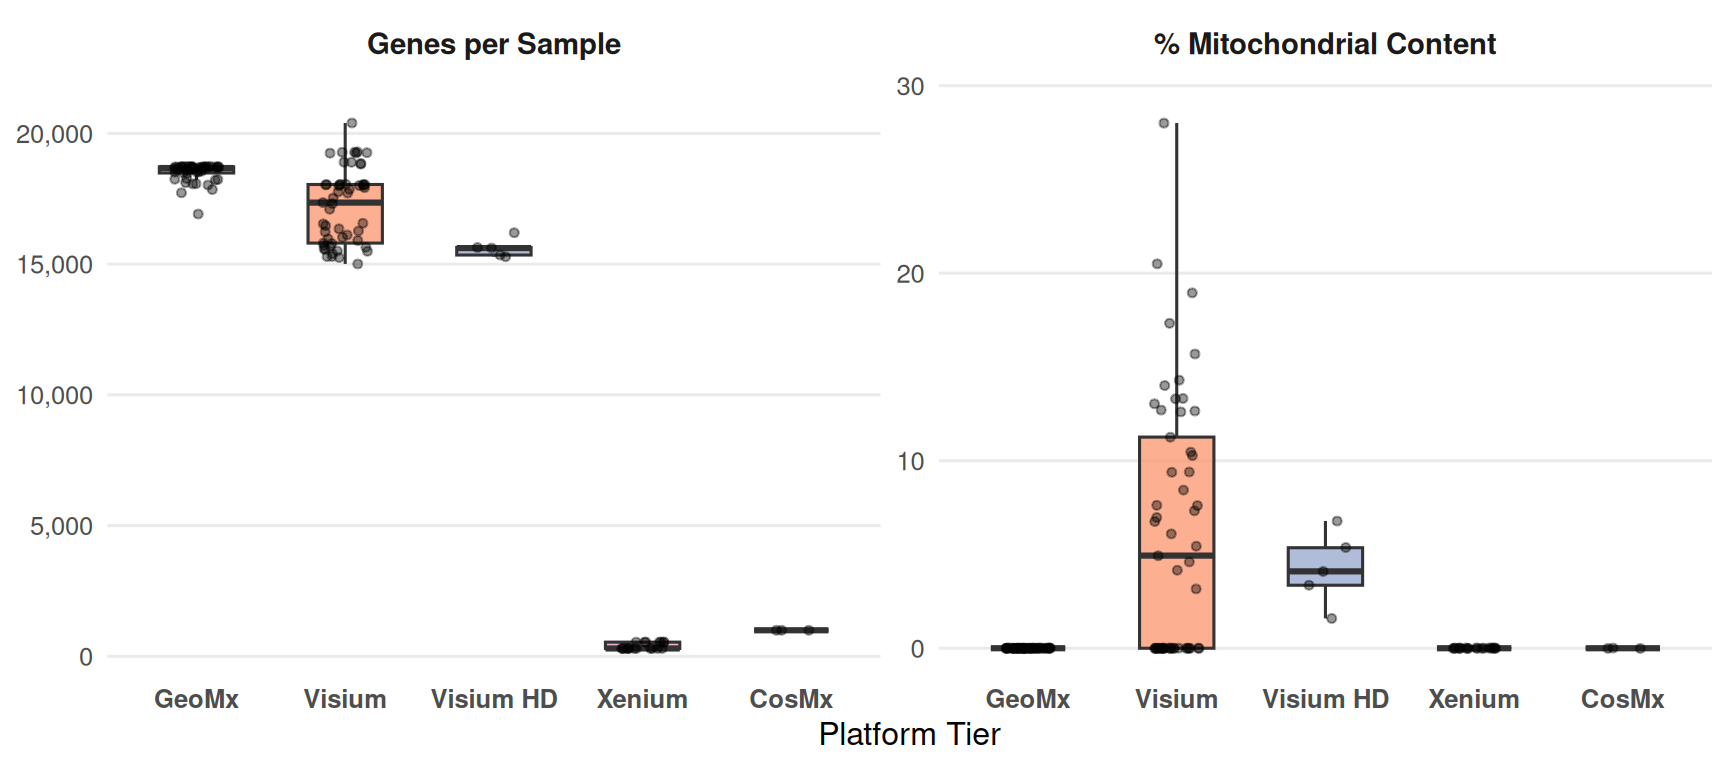
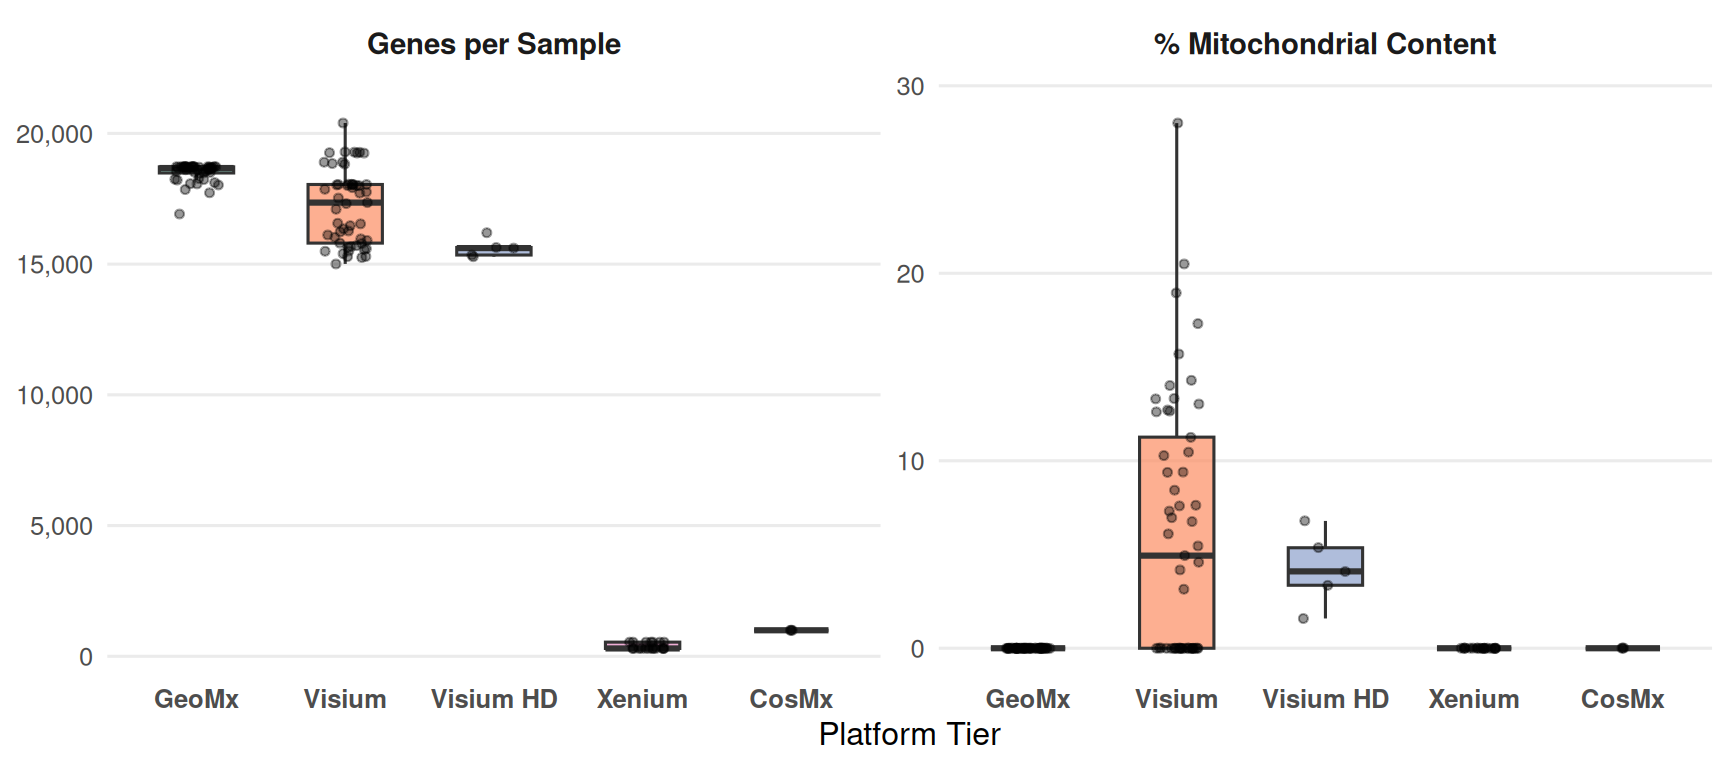
renal spatial add cover

diff --git a/cases/renalspatial/01_data_at_hand.html b/cases/renalspatial/01_data_at_hand.html
@@ -543,8 +543,8 @@ analysis is built around.</p>
 <div id="the-quality-of-the-data-sample-by-sample"
 class="section level2">
 <h2>The quality of the data, sample by sample</h2>
-<div class="datatables html-widget html-fill-item" id="htmlwidget-797ad695ef35dc31ff26" style="width:100%;height:auto;"></div>
-<script type="application/json" data-for="htmlwidget-797ad695ef35dc31ff26">{"x":{"filter":"none","vertical":false,"caption":"<caption>All samples: units, genes, and per-unit QC.<\/caption>","data":[["GSM8551262","GSM8551263","GSM8551264","GSM8323120","GSM8323121","GSM8323122","GSM8323123","GSM8323124","GSM8323125","GSM8325615","GSM8325616","GSM8325617","GSM8325618","GSM8325619","GSM8325620","GSM8325621","GSM8325622","GSM8325623","GSM8325624","GSM8325625","GSM8325626","GSM8110784","GSM8110785","GSM8110786","GSM8110787","GSM8691119","GSM8691120","GSM8691121","GSM8691122","GSM8691123","GSM8691124","GSM8691125","GSM9045323","GSM9108683","GSM9108684","GSM9108685","GSM9155022","GSM9155023","GSM9155024","GSM9155025","GSM9231917","GSM9231918","GSM9231919","GSM9231920","GSM9231921","GSM9231922","GSM9231923","GSM9231924","GSM9231925","GSM9231926","GSM9231927","GSM9231928","GSM9247127","GSM9247128","GSM9247129","GSM9247130","GSM9247131","GSM9247132","GSM9247133","GSM9247134","GSM9247135","GSM9247136","GSM9247137","GSM9247138","GSM9467249","GSM9467250","GSM9467251","GSM9467252","GSM9579055","GSM9579056","GSM9579057","GSM9579058","GSM9802211","GSM9895920","GSM9895921","GSM9895922","GSM9895923","GSM9938089","GSM9938090","GSM9938091","GSM9938092","GSM9938093","GSM9938094","GSM9938095","GSM9938096","GSM9938097","GSM9938098","GSM9938099","GSM9938100","GSM9938101","GSM9938102","GSM9938103","GSM9938104","GSM9938105","GSM9938106","GSM9938107","GSM9938108","GSM9938109","GSM9938110","GSM9938111","GSM9938112","GSM9938113","GSM9938114","GSM9938115","GSM9938116","GSM9938117","GSM9938118","GSM9938119","GSM9938120","GSM9938121","GSM9938122","GSM9938123","GSM9938124","GSM9938125","GSM9938126","GSM9938127","GSM9938128","GSM9938129","GSM9938130","GSM9938131","GSM9938132","GSM9938133","GSM9938134","GSM9938135","GSM9938136","GSM9026963","GSM6047778","GSM6047779"],["human-kidney-dev","human-kidney-dev","human-kidney-dev","mouse-IRI-repair","mouse-IRI-repair","mouse-IRI-repair","mouse-IRI-repair","mouse-IRI-repair","mouse-IRI-repair","mouse-IRI-repair","mouse-IRI-repair","mouse-IRI-repair","mouse-IRI-repair","mouse-IRI-repair","mouse-IRI-repair","mouse-IRI-repair","mouse-IRI-repair","mouse-IRI-repair","mouse-IRI-repair","mouse-IRI-repair","mouse-IRI-repair","hyperuricemia-mouse","hyperuricemia-mouse","hyperuricemia-mouse","hyperuricemia-mouse","kidney-transplant-rejection","kidney-transplant-rejection","kidney-transplant-rejection","kidney-transplant-rejection","kidney-transplant-rejection","kidney-transplant-rejection","kidney-transplant-rejection","kidney-repair-matrix","ANCA-vasculitis","ANCA-vasculitis","ANCA-vasculitis","transplant-rejection-FCGR3A","transplant-rejection-FCGR3A","transplant-rejection-FCGR3A","transplant-rejection-FCGR3A","DKD-MEF2C","DKD-MEF2C","DKD-MEF2C","DKD-MEF2C","DKD-MEF2C","DKD-MEF2C","DKD-MEF2C","DKD-MEF2C","DKD-MEF2C","DKD-MEF2C","DKD-MEF2C","DKD-MEF2C","EPO-cell-neighborhood","EPO-cell-neighborhood","EPO-cell-neighborhood","EPO-cell-neighborhood","EPO-cell-neighborhood","EPO-cell-neighborhood","EPO-cell-neighborhood","EPO-cell-neighborhood","EPO-cell-neighborhood","EPO-cell-neighborhood","EPO-cell-neighborhood","EPO-cell-neighborhood","DKD-HIF-SGLT2i","DKD-HIF-SGLT2i","DKD-HIF-SGLT2i","DKD-HIF-SGLT2i","lupus-nephritis-mouse","lupus-nephritis-mouse","lupus-nephritis-mouse","lupus-nephritis-mouse","CAMR-scRNA-VisiumHD","hypertensive-nephropathy","hypertensive-nephropathy","hypertensive-nephropathy","hypertensive-nephropathy","CAMR-GeoMx","CAMR-GeoMx","CAMR-GeoMx","CAMR-GeoMx","CAMR-GeoMx","CAMR-GeoMx","CAMR-GeoMx","CAMR-GeoMx","CAMR-GeoMx","CAMR-GeoMx","CAMR-GeoMx","CAMR-GeoMx","CAMR-GeoMx","CAMR-GeoMx","CAMR-GeoMx","CAMR-GeoMx","CAMR-GeoMx","CAMR-GeoMx","CAMR-GeoMx","CAMR-GeoMx","CAMR-GeoMx","CAMR-GeoMx","CAMR-GeoMx","CAMR-GeoMx","CAMR-GeoMx","CAMR-GeoMx","CAMR-GeoMx","CAMR-GeoMx","CAMR-GeoMx","CAMR-GeoMx","CAMR-GeoMx","CAMR-GeoMx","CAMR-GeoMx","CAMR-GeoMx","CAMR-GeoMx","CAMR-GeoMx","CAMR-GeoMx","CAMR-GeoMx","CAMR-GeoMx","CAMR-GeoMx","CAMR-GeoMx","CAMR-GeoMx","CAMR-GeoMx","CAMR-GeoMx","CAMR-GeoMx","CAMR-GeoMx","CAMR-GeoMx","CAMR-GeoMx","kidney-PT-regen","kidney-PT-regen","kidney-PT-regen"],["cosmx","cosmx","cosmx","visium","visium","visium","visium","visium","visium","xenium","xenium","xenium","xenium","xenium","xenium","xenium","xenium","xenium","xenium","xenium","xenium","visium","visium","visium","visium","xenium","xenium","xenium","xenium","xenium","xenium","xenium","visium","visium","visium","visium","visium","visium","visium","visium","visium","visium","visium","visium","visium","visium","visium","visium","visium","visium","visium","visium","visium","visium","visium","visium","visium","visium","visium","visium","visium","visium","visium","visium","visium_hd","visium_hd","visium_hd","visium_hd","visium","visium","visium","visium","visium_hd","visium","visium","visium","visium","geomx","geomx","geomx","geomx","geomx","geomx","geomx","geomx","geomx","geomx","geomx","geomx","geomx","geomx","geomx","geomx","geomx","geomx","geomx","geomx","geomx","geomx","geomx","geomx","geomx","geomx","geomx","geomx","geomx","geomx","geomx","geomx","geomx","geomx","geomx","geomx","geomx","geomx","geomx","geomx","geomx","geomx","geomx","geomx","geomx","geomx","geomx","geomx","visium","visium","visium"],[230536,127022,118188,2855,3085,3392,3434,2754,3912,110946,84141,99679,113560,108757,112011,101118,96601,152366,147595,152437,126104,2650,2590,2528,3362,36680,35806,40136,49288,44837,35699,45779,3134,1413,892,1277,1048,1348,992,1129,1865,1373,437,977,531,1203,1682,1394,1479,4608,1929,4569,4024,4439,4290,4759,4768,4509,4808,4615,4726,4927,4330,4257,55464,68732,56779,112893,3345,3205,3336,3313,129552,4064,4826,4913,4031,1,1,1,1,1,1,1,1,1,1,1,1,1,1,1,1,1,1,1,1,1,1,1,1,1,1,1,1,1,1,1,1,1,1,1,1,1,1,1,1,1,1,1,1,1,1,1,1,992,950,1028],[995,995,995,19245,19248,19261,19278,19292,19283,300,299,300,300,300,300,300,300,300,300,300,300,17716,17760,17353,17528,541,541,541,541,541,541,541,15503,17315,17100,20398,18009,17997,17926,17863,15492,15292,18028,18045,18044,18056,18006,15288,15587,18053,18030,18046,16350,16469,15708,16026,15967,15786,15400,15252,15669,15804,16267,16115,15283,15635,15613,16200,16563,16539,15643,15558,15348,18826,18847,18898,18897,16916,18068,18551,18215,18684,17728,17852,18614,18274,18720,18551,18723,18473,18722,18076,18117,18247,18026,18236,18670,18720,18728,18729,18609,18664,18661,18696,18691,18511,18693,18490,18722,18727,18610,18709,18681,18730,18730,18656,18717,18680,18708,18517,18708,18726,18730,18730,18723,15006,15903,16233],[101,72,58,5299,5474,5300.5,6310,7856,5392,35,37,47,46,44,44,53,51,44,39,46,47,4487.5,4728.5,5978.5,5627.5,159,167,211,203,194,187,201,7160,1428,1704.5,5103,3570,1189,3860,2113,4152,4671,8935,10393,9884,9725,5397,2216.5,3483,7502.5,3236,2338,374,432,729,2131,4935.5,3395,3496.5,2956,2428,4030,757.5,459,55,42,44,43,1797,1729,934.5,834,129,54.5,160.5,72,61,16916,18068,18551,18215,18684,17728,17852,18614,18274,18720,18551,18723,18473,18722,18076,18117,18247,18026,18236,18670,18720,18728,18729,18609,18664,18661,18696,18691,18511,18693,18490,18722,18727,18610,18709,18681,18730,18730,18656,18717,18680,18708,18517,18708,18726,18730,18730,18723,1567,2301.5,2384.5],[144,95,76,11933,20000,15083.5,21096,23222.5,18169,88,104,144,135,125,127,153,140,104,80,126,131,16674,19599.5,37386,32038.5,2561,2681,3163,2849,2693,2508,2506,36954.5,3062,3204.5,16631,5761.5,1689.5,7178.5,3605,9274,10255,28761,47211,39539,40878,15017.5,3900.5,6928,22307,5794,3862,431.5,498,1043,4123,16015.5,7037,8062,6300,4912.5,9628,946,547,59,44,46,45,3271,3105,1437,1198,147,59,176,75,65,68998,118515,162799,132662,255664,99603,95321,143282,103849,260137,123114,250219,108683,250585,80498,86681,94530,74567,80663,131516,200122,248182,245531,135963,143566,133399,157397,160704,101602,179882,111102,209536,225437,111018,162018,140383,358600,1873987,125948,251586,197825,234604,108856,217968,304691,463283,408485,207770,2532.5,3560,4204]],"container":"<table class=\"display\">\n  <thead>\n    <tr>\n      <th>gsm<\/th>\n      <th>study<\/th>\n      <th>tier<\/th>\n      <th>n_units<\/th>\n      <th>n_genes<\/th>\n      <th>median_genes<\/th>\n      <th>median_counts<\/th>\n    <\/tr>\n  <\/thead>\n<\/table>","options":{"pageLength":25,"lengthMenu":[25,50,100],"columnDefs":[{"className":"dt-right","targets":[3,4,5,6]},{"name":"gsm","targets":0},{"name":"study","targets":1},{"name":"tier","targets":2},{"name":"n_units","targets":3},{"name":"n_genes","targets":4},{"name":"median_genes","targets":5},{"name":"median_counts","targets":6}],"order":[],"autoWidth":false,"orderClasses":false}},"evals":[],"jsHooks":[]}</script>
+<div class="datatables html-widget html-fill-item" id="htmlwidget-0c2be0e70e4a9f6d4a1e" style="width:100%;height:auto;"></div>
+<script type="application/json" data-for="htmlwidget-0c2be0e70e4a9f6d4a1e">{"x":{"filter":"none","vertical":false,"caption":"<caption>All samples: units, genes, and per-unit QC.<\/caption>","data":[["GSM8551262","GSM8551263","GSM8551264","GSM8323120","GSM8323121","GSM8323122","GSM8323123","GSM8323124","GSM8323125","GSM8325615","GSM8325616","GSM8325617","GSM8325618","GSM8325619","GSM8325620","GSM8325621","GSM8325622","GSM8325623","GSM8325624","GSM8325625","GSM8325626","GSM8110784","GSM8110785","GSM8110786","GSM8110787","GSM8691119","GSM8691120","GSM8691121","GSM8691122","GSM8691123","GSM8691124","GSM8691125","GSM9045323","GSM9108683","GSM9108684","GSM9108685","GSM9155022","GSM9155023","GSM9155024","GSM9155025","GSM9231917","GSM9231918","GSM9231919","GSM9231920","GSM9231921","GSM9231922","GSM9231923","GSM9231924","GSM9231925","GSM9231926","GSM9231927","GSM9231928","GSM9247127","GSM9247128","GSM9247129","GSM9247130","GSM9247131","GSM9247132","GSM9247133","GSM9247134","GSM9247135","GSM9247136","GSM9247137","GSM9247138","GSM9467249","GSM9467250","GSM9467251","GSM9467252","GSM9579055","GSM9579056","GSM9579057","GSM9579058","GSM9802211","GSM9895920","GSM9895921","GSM9895922","GSM9895923","GSM9938089","GSM9938090","GSM9938091","GSM9938092","GSM9938093","GSM9938094","GSM9938095","GSM9938096","GSM9938097","GSM9938098","GSM9938099","GSM9938100","GSM9938101","GSM9938102","GSM9938103","GSM9938104","GSM9938105","GSM9938106","GSM9938107","GSM9938108","GSM9938109","GSM9938110","GSM9938111","GSM9938112","GSM9938113","GSM9938114","GSM9938115","GSM9938116","GSM9938117","GSM9938118","GSM9938119","GSM9938120","GSM9938121","GSM9938122","GSM9938123","GSM9938124","GSM9938125","GSM9938126","GSM9938127","GSM9938128","GSM9938129","GSM9938130","GSM9938131","GSM9938132","GSM9938133","GSM9938134","GSM9938135","GSM9938136","GSM9026963","GSM6047778","GSM6047779"],["human-kidney-dev","human-kidney-dev","human-kidney-dev","mouse-IRI-repair","mouse-IRI-repair","mouse-IRI-repair","mouse-IRI-repair","mouse-IRI-repair","mouse-IRI-repair","mouse-IRI-repair","mouse-IRI-repair","mouse-IRI-repair","mouse-IRI-repair","mouse-IRI-repair","mouse-IRI-repair","mouse-IRI-repair","mouse-IRI-repair","mouse-IRI-repair","mouse-IRI-repair","mouse-IRI-repair","mouse-IRI-repair","hyperuricemia-mouse","hyperuricemia-mouse","hyperuricemia-mouse","hyperuricemia-mouse","kidney-transplant-rejection","kidney-transplant-rejection","kidney-transplant-rejection","kidney-transplant-rejection","kidney-transplant-rejection","kidney-transplant-rejection","kidney-transplant-rejection","kidney-repair-matrix","ANCA-vasculitis","ANCA-vasculitis","ANCA-vasculitis","transplant-rejection-FCGR3A","transplant-rejection-FCGR3A","transplant-rejection-FCGR3A","transplant-rejection-FCGR3A","DKD-MEF2C","DKD-MEF2C","DKD-MEF2C","DKD-MEF2C","DKD-MEF2C","DKD-MEF2C","DKD-MEF2C","DKD-MEF2C","DKD-MEF2C","DKD-MEF2C","DKD-MEF2C","DKD-MEF2C","EPO-cell-neighborhood","EPO-cell-neighborhood","EPO-cell-neighborhood","EPO-cell-neighborhood","EPO-cell-neighborhood","EPO-cell-neighborhood","EPO-cell-neighborhood","EPO-cell-neighborhood","EPO-cell-neighborhood","EPO-cell-neighborhood","EPO-cell-neighborhood","EPO-cell-neighborhood","DKD-HIF-SGLT2i","DKD-HIF-SGLT2i","DKD-HIF-SGLT2i","DKD-HIF-SGLT2i","lupus-nephritis-mouse","lupus-nephritis-mouse","lupus-nephritis-mouse","lupus-nephritis-mouse","CAMR-scRNA-VisiumHD","hypertensive-nephropathy","hypertensive-nephropathy","hypertensive-nephropathy","hypertensive-nephropathy","CAMR-GeoMx","CAMR-GeoMx","CAMR-GeoMx","CAMR-GeoMx","CAMR-GeoMx","CAMR-GeoMx","CAMR-GeoMx","CAMR-GeoMx","CAMR-GeoMx","CAMR-GeoMx","CAMR-GeoMx","CAMR-GeoMx","CAMR-GeoMx","CAMR-GeoMx","CAMR-GeoMx","CAMR-GeoMx","CAMR-GeoMx","CAMR-GeoMx","CAMR-GeoMx","CAMR-GeoMx","CAMR-GeoMx","CAMR-GeoMx","CAMR-GeoMx","CAMR-GeoMx","CAMR-GeoMx","CAMR-GeoMx","CAMR-GeoMx","CAMR-GeoMx","CAMR-GeoMx","CAMR-GeoMx","CAMR-GeoMx","CAMR-GeoMx","CAMR-GeoMx","CAMR-GeoMx","CAMR-GeoMx","CAMR-GeoMx","CAMR-GeoMx","CAMR-GeoMx","CAMR-GeoMx","CAMR-GeoMx","CAMR-GeoMx","CAMR-GeoMx","CAMR-GeoMx","CAMR-GeoMx","CAMR-GeoMx","CAMR-GeoMx","CAMR-GeoMx","CAMR-GeoMx","kidney-PT-regen","kidney-PT-regen","kidney-PT-regen"],["cosmx","cosmx","cosmx","visium","visium","visium","visium","visium","visium","xenium","xenium","xenium","xenium","xenium","xenium","xenium","xenium","xenium","xenium","xenium","xenium","visium","visium","visium","visium","xenium","xenium","xenium","xenium","xenium","xenium","xenium","visium","visium","visium","visium","visium","visium","visium","visium","visium","visium","visium","visium","visium","visium","visium","visium","visium","visium","visium","visium","visium","visium","visium","visium","visium","visium","visium","visium","visium","visium","visium","visium","visium_hd","visium_hd","visium_hd","visium_hd","visium","visium","visium","visium","visium_hd","visium","visium","visium","visium","geomx","geomx","geomx","geomx","geomx","geomx","geomx","geomx","geomx","geomx","geomx","geomx","geomx","geomx","geomx","geomx","geomx","geomx","geomx","geomx","geomx","geomx","geomx","geomx","geomx","geomx","geomx","geomx","geomx","geomx","geomx","geomx","geomx","geomx","geomx","geomx","geomx","geomx","geomx","geomx","geomx","geomx","geomx","geomx","geomx","geomx","geomx","geomx","visium","visium","visium"],[230536,127022,118188,2855,3085,3392,3434,2754,3912,110946,84141,99679,113560,108757,112011,101118,96601,152366,147595,152437,126104,2650,2590,2528,3362,36680,35806,40136,49288,44837,35699,45779,3134,1413,892,1277,1048,1348,992,1129,1865,1373,437,977,531,1203,1682,1394,1479,4608,1929,4569,4024,4439,4290,4759,4768,4509,4808,4615,4726,4927,4330,4257,55464,68732,56779,112893,3345,3205,3336,3313,129552,4064,4826,4913,4031,1,1,1,1,1,1,1,1,1,1,1,1,1,1,1,1,1,1,1,1,1,1,1,1,1,1,1,1,1,1,1,1,1,1,1,1,1,1,1,1,1,1,1,1,1,1,1,1,992,950,1028],[995,995,995,19245,19248,19261,19278,19292,19283,300,299,300,300,300,300,300,300,300,300,300,300,17716,17760,17353,17528,541,541,541,541,541,541,541,15503,17315,17100,20398,18009,17997,17926,17863,15492,15292,18028,18045,18044,18056,18006,15288,15587,18053,18030,18046,16350,16469,15708,16026,15967,15786,15400,15252,15669,15804,16267,16115,15283,15635,15613,16200,16563,16539,15643,15558,15348,18826,18847,18898,18897,16916,18068,18551,18215,18684,17728,17852,18614,18274,18720,18551,18723,18473,18722,18076,18117,18247,18026,18236,18670,18720,18728,18729,18609,18664,18661,18696,18691,18511,18693,18490,18722,18727,18610,18709,18681,18730,18730,18656,18717,18680,18708,18517,18708,18726,18730,18730,18723,15006,15903,16233],[101,72,58,5299,5474,5300.5,6310,7856,5392,35,37,47,46,44,44,53,51,44,39,46,47,4487.5,4728.5,5978.5,5627.5,159,167,211,203,194,187,201,7160,1428,1704.5,5103,3570,1189,3860,2113,4152,4671,8935,10393,9884,9725,5397,2216.5,3483,7502.5,3236,2338,374,432,729,2131,4935.5,3395,3496.5,2956,2428,4030,757.5,459,55,42,44,43,1797,1729,934.5,834,129,54.5,160.5,72,61,16916,18068,18551,18215,18684,17728,17852,18614,18274,18720,18551,18723,18473,18722,18076,18117,18247,18026,18236,18670,18720,18728,18729,18609,18664,18661,18696,18691,18511,18693,18490,18722,18727,18610,18709,18681,18730,18730,18656,18717,18680,18708,18517,18708,18726,18730,18730,18723,1567,2301.5,2384.5],[144,95,76,11933,20000,15083.5,21096,23222.5,18169,88,104,144,135,125,127,153,140,104,80,126,131,16674,19599.5,37386,32038.5,2561,2681,3163,2849,2693,2508,2506,36954.5,3062,3204.5,16631,5761.5,1689.5,7178.5,3605,9274,10255,28761,47211,39539,40878,15017.5,3900.5,6928,22307,5794,3862,431.5,498,1043,4123,16015.5,7037,8062,6300,4912.5,9628,946,547,59,44,46,45,3271,3105,1437,1198,147,59,176,75,65,68998,118515,162799,132662,255664,99603,95321,143282,103849,260137,123114,250219,108683,250585,80498,86681,94530,74567,80663,131516,200122,248182,245531,135963,143566,133399,157397,160704,101602,179882,111102,209536,225437,111018,162018,140383,358600,1873987,125948,251586,197825,234604,108856,217968,304691,463283,408485,207770,2532.5,3560,4204]],"container":"<table class=\"display\">\n  <thead>\n    <tr>\n      <th>gsm<\/th>\n      <th>study<\/th>\n      <th>tier<\/th>\n      <th>n_units<\/th>\n      <th>n_genes<\/th>\n      <th>median_genes<\/th>\n      <th>median_counts<\/th>\n    <\/tr>\n  <\/thead>\n<\/table>","options":{"pageLength":25,"lengthMenu":[25,50,100],"columnDefs":[{"className":"dt-right","targets":[3,4,5,6]},{"name":"gsm","targets":0},{"name":"study","targets":1},{"name":"tier","targets":2},{"name":"n_units","targets":3},{"name":"n_genes","targets":4},{"name":"median_genes","targets":5},{"name":"median_counts","targets":6}],"order":[],"autoWidth":false,"orderClasses":false}},"evals":[],"jsHooks":[]}</script>
 <p>Quality varies with platform in the way the physics predicts. Imaging
 platforms (Xenium, CosMx) detect <strong>35–211 median genes per
 cell</strong>, because a panel is limited and a single cell is sparse.

diff --git a/cases/renalspatial/index.html b/cases/renalspatial/index.html
@@ -13,7 +13,7 @@
 
 <meta name="date" content="2026-08-15" />
 
-<title>The Kidney Spatial Transcriptomics Analysis</title>
+<title>The Many Faces of the Kidney</title>
 
 <script src="site_libs/header-attrs-2.31/header-attrs.js"></script>
 <script src="site_libs/jquery-3.6.0/jquery-3.6.0.min.js"></script>
@@ -321,8 +321,7 @@ $(document).ready(function () {
 
 
 
-<h1 class="title toc-ignore">The Kidney Spatial Transcriptomics
-Analysis</h1>
+<h1 class="title toc-ignore">The Many Faces of the Kidney</h1>
 <h3 class="subtitle">A systematic re-analysis of 128 publicly available
 spatial-transcriptomics samples generated across five platforms</h3>
 <h4 class="author">Johnson</h4>
@@ -331,36 +330,15 @@ spatial-transcriptomics samples generated across five platforms</h3>
 </div>
 
 
-<div class="disclaimer-box">
-<h4 class="disclaimer-title">
-⚠ Independent Research Disclaimer &amp; Scientific Limitations
-</h4>
-<p class="disclaimer-text">
-<strong>Declaration of Independence:</strong> The author declares no
-conflicts of interest or shared affiliations with the authors of the
-original studies whose public data are re-analyzed here. The
-computational re-analysis and results presented herein are completely
-independent and have no official connection to any of the original
-publications. The original studies are referenced solely for
-experimental design, data structure, and biological context.
-</p>
-<p class="disclaimer-text">
-<strong>Educational &amp; Non-Clinical Purpose:</strong> This analysis
-is intended solely for bioinformatics educational and demonstration
-purposes. The datasets span human and mouse kidney tissue across
-development and disease. Under no circumstances should these findings be
-interpreted as clinical advice, used to guide patient care, or used as
-experimental suggestions for therapeutic interventions in patients.
-</p>
-<p class="disclaimer-text">
-<strong>Data Scope &amp; Limitations:</strong> All analyzed data were
-retrieved from the public Gene Expression Omnibus (GEO). This analysis
-is provided “as-is,” does not seek orthogonal experimental validation,
-and should be interpreted accordingly.
-</p>
+<hr />
+<div class="float">
+<img src="img/cover_kidney_option1.jpg"
+alt="The Many Faces of the Kidney by GEMINI" />
+<div class="figcaption">The Many Faces of the Kidney by GEMINI</div>
 </div>
-<div id="what-this-analysis-is" class="section level1">
-<h1>What This analysis Is</h1>
+<hr />
+<div id="prologue" class="section level1">
+<h1>Prologue</h1>
 <p>This analysis presents a systematic analysis of publicly available
 kidney spatial-transcriptomics data. The underlying experiments were
 conducted by other research groups, and the original experimental
@@ -420,6 +398,34 @@ also documented rather than omitted. Throughout, the analysis is guided
 by the biological questions of interest, with methodological choices
 serving those questions and the limitations of the data and methods
 treated as an integral part of the analytical process.</p>
+<div class="disclaimer-box">
+<h4 class="disclaimer-title">
+⚠ Independent Research Disclaimer &amp; Scientific Limitations
+</h4>
+<p class="disclaimer-text">
+<strong>Declaration of Independence:</strong> The author declares no
+conflicts of interest or shared affiliations with the authors of the
+original studies whose public data are re-analyzed here. The
+computational re-analysis and results presented herein are completely
+independent and have no official connection to any of the original
+publications. The original studies are referenced solely for
+experimental design, data structure, and biological context.
+</p>
+<p class="disclaimer-text">
+<strong>Educational &amp; Non-Clinical Purpose:</strong> This analysis
+is intended solely for bioinformatics educational and demonstration
+purposes. The datasets span human and mouse kidney tissue across
+development and disease. Under no circumstances should these findings be
+interpreted as clinical advice, used to guide patient care, or used as
+experimental suggestions for therapeutic interventions in patients.
+</p>
+<p class="disclaimer-text">
+<strong>Data Scope &amp; Limitations:</strong> All analyzed data were
+retrieved from the public Gene Expression Omnibus (GEO). This analysis
+is provided “as-is,” does not seek orthogonal experimental validation,
+and should be interpreted accordingly.
+</p>
+</div>
 </div>
 
 <!-- Google tag (gtag.js) -->
